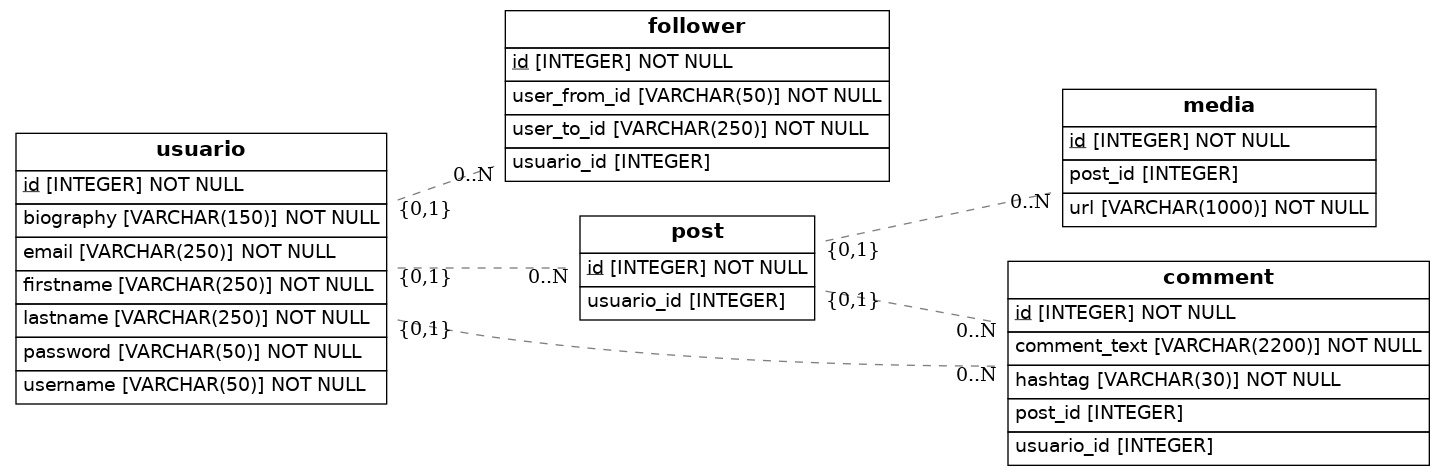
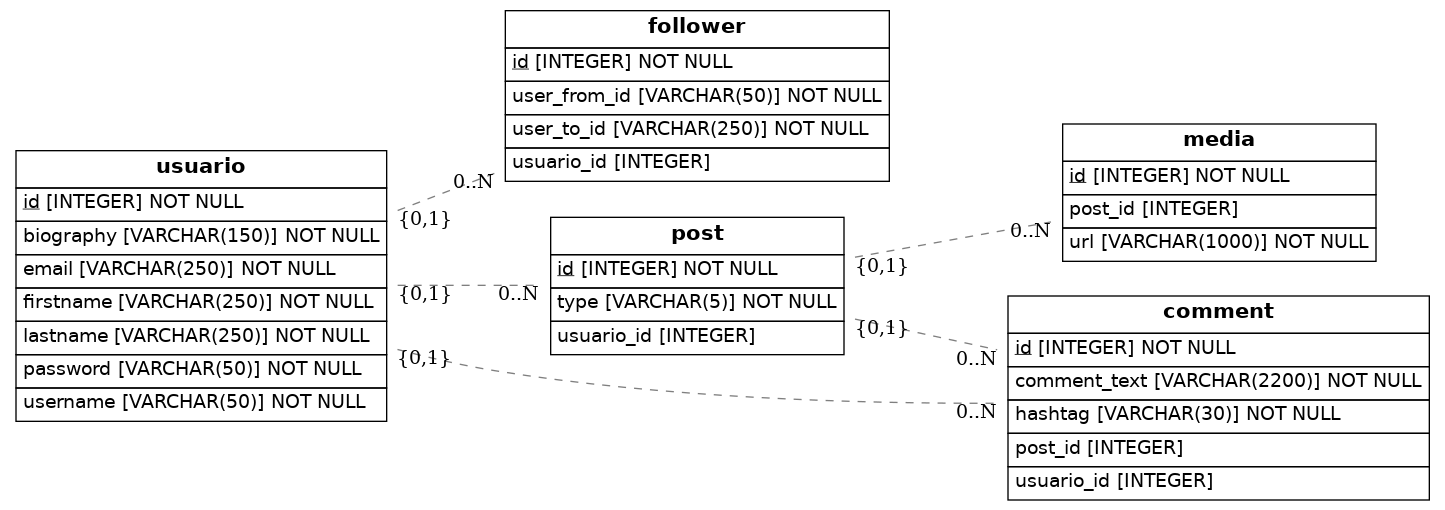
using enum type

diff --git a/src/models.py b/src/models.py
@@ -1,5 +1,6 @@
 import os
 import sys
+import enum
 from sqlalchemy import Column, ForeignKey, Integer, String, Enum
 from sqlalchemy.orm import relationship, declarative_base
 from sqlalchemy import create_engine
@@ -27,14 +28,22 @@ class Follower(Base):
     id = Column(Integer, primary_key=True)
     user_from_id = Column(String(50), nullable=False)
     user_to_id = Column(String(250), nullable=False)
-    usuario = relationship(Usuario)
     usuario_id = Column(Integer, ForeignKey('usuario.id'))
+    usuario = relationship(Usuario)
+
+class type_media(enum.Enum):
+    photo = 'photo'
+    video = 'video'
+    story = 'story'
+    reel = 'reel'
 
 class Post(Base):
     __tablename__ = 'post'
 
     id = Column(Integer, primary_key=True)
     usuario_id = Column(Integer, ForeignKey('usuario.id'))
+    type = Column(Enum(type_media), nullable=False, default=type_media.photo)
+    usario = relationship(Usuario)
   
 
 class Media(Base):
@@ -43,6 +52,7 @@ class Media(Base):
     id = Column(Integer, primary_key=True)
     url = Column(String(1000), nullable=False)
     post_id = Column(Integer, ForeignKey('post.id'))
+    post = relationship(Post)
     
 class Comment(Base):
     __tablename__ = 'comment'
@@ -51,7 +61,9 @@ class Comment(Base):
     comment_text = Column(String(2200), nullable=False)
     hashtag = Column(String(30), nullable=False)
     usuario_id = Column(Integer, ForeignKey('usuario.id'))
+    usuario = relationship(Usuario)
     post_id = Column(Integer, ForeignKey('post.id'))
+    post = relationship(Post)
 
 
 
